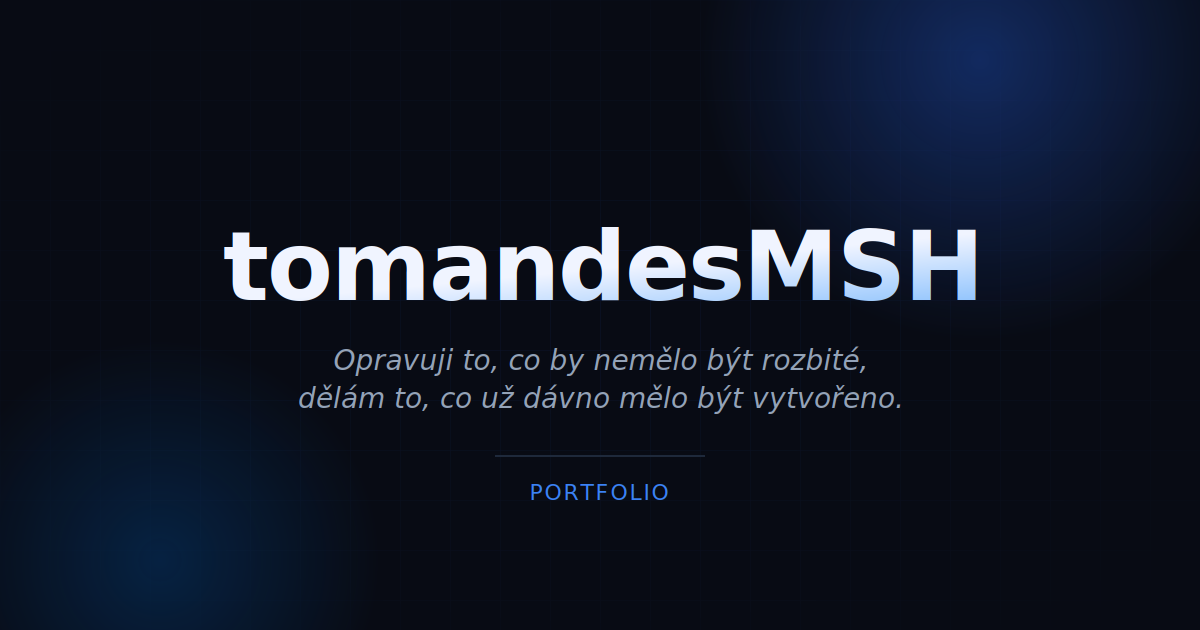
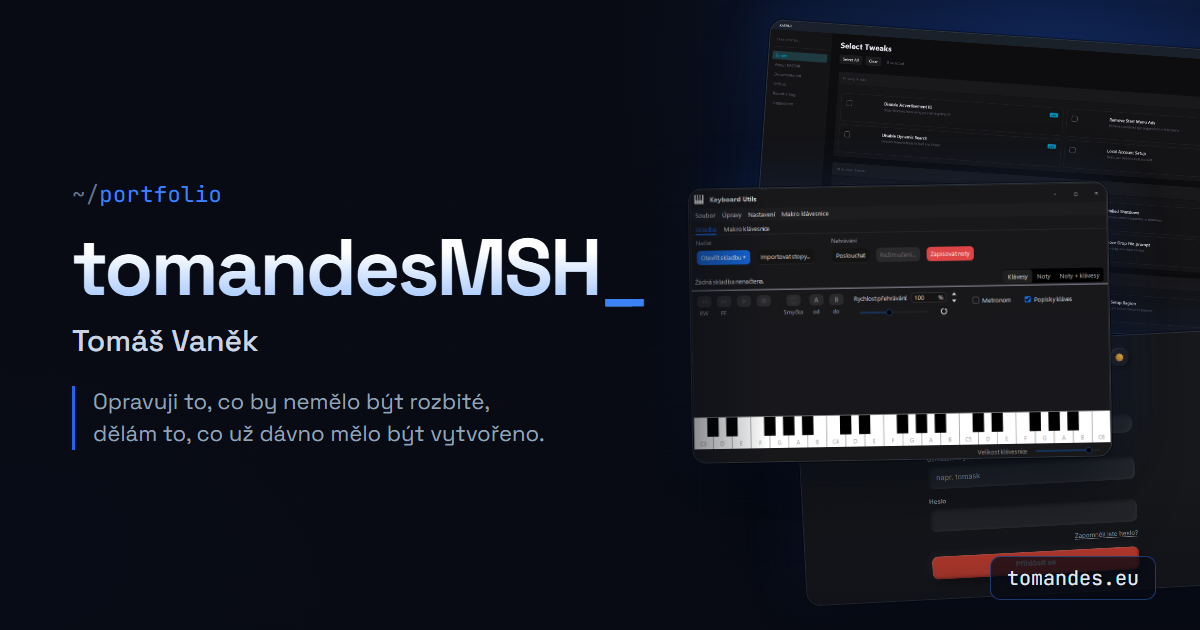
New social preview image (source in og/og.html)

diff --git a/og/og.html b/og/og.html
@@ -1,0 +1,76 @@
+<!DOCTYPE html>
+<html lang="cs">
+<head>
+<meta charset="UTF-8">
+<title>og-image</title>
+<meta name="robots" content="noindex">
+<link href="https://fonts.googleapis.com/css2?family=Space+Grotesk:wght@400;500;700&family=JetBrains+Mono:wght@400;500&display=block" rel="stylesheet">
+<style>
+  * { margin: 0; padding: 0; box-sizing: border-box; }
+  html, body { width: 1200px; height: 630px; overflow: hidden; background: #080b14; }
+  .card {
+    position: relative; width: 1200px; height: 630px; overflow: hidden;
+    font-family: 'Space Grotesk', sans-serif; color: #e2e8f0;
+    background:
+      radial-gradient(700px 500px at 88% 10%, rgba(37, 99, 235, .28), transparent 65%),
+      radial-gradient(500px 400px at 0% 100%, rgba(0, 102, 204, .18), transparent 70%),
+      #080b14;
+  }
+  .grid {
+    position: absolute; inset: 0;
+    background-image:
+      linear-gradient(rgba(59, 130, 246, .08) 1px, transparent 1px),
+      linear-gradient(90deg, rgba(59, 130, 246, .08) 1px, transparent 1px);
+    background-size: 50px 50px;
+    -webkit-mask-image: radial-gradient(ellipse 70% 90% at 30% 50%, black 20%, transparent 80%);
+  }
+  .left { position: absolute; z-index: 5; left: 72px; top: 0; bottom: 0; width: 560px; display: flex; flex-direction: column; justify-content: center; }
+  .eyebrow { font-family: 'JetBrains Mono', monospace; font-size: 22px; color: #3b82f6; letter-spacing: .02em; margin-bottom: 18px; }
+  .eyebrow b { color: #64748b; font-weight: 400; }
+  h1 {
+    font-size: 80px; font-weight: 700; letter-spacing: -.035em; line-height: 1;
+    background: linear-gradient(180deg, #ffffff 30%, #9cc2ff 100%);
+    -webkit-background-clip: text; color: transparent;
+  }
+  h1 .cur { color: #3b82f6; -webkit-text-fill-color: #3b82f6; font-weight: 500; }
+  .who { margin-top: 14px; font-size: 30px; font-weight: 500; color: #cbd5e1; }
+  .tag { margin-top: 26px; font-size: 22px; line-height: 1.45; color: #94a3b8; border-left: 3px solid #2563eb; padding-left: 18px; }
+  .chips { margin-top: 34px; display: flex; gap: 10px; flex-wrap: wrap; }
+  .chips span {
+    font-family: 'JetBrains Mono', monospace; font-size: 17px; color: #bfdbfe;
+    padding: 7px 14px; border-radius: 999px;
+    background: rgba(37, 99, 235, .14); border: 1px solid rgba(59, 130, 246, .35);
+  }
+  .shot {
+    position: absolute; border-radius: 14px; overflow: hidden;
+    border: 1px solid rgba(148, 163, 184, .25);
+    box-shadow: 0 30px 60px rgba(0, 0, 0, .55), 0 0 0 1px rgba(0,0,0,.4), 0 0 60px rgba(37, 99, 235, .18);
+    background: #0d1117;
+  }
+  .shot img { display: block; width: 100%; height: 100%; object-fit: cover; object-position: top left; }
+  .s1 { width: 500px; height: 290px; left: 760px; top: 36px; transform: rotate(4deg); }
+  .s2 { width: 450px; height: 255px; left: 800px; top: 340px; transform: rotate(-3deg); }
+  .s3 { width: 420px; height: 275px; left: 690px; top: 185px; transform: rotate(-1deg); z-index: 2; }
+  .fade { position: absolute; inset: 0; pointer-events: none;
+    background: linear-gradient(90deg, rgba(8,11,20,.9) 52%, rgba(8,11,20,0) 64%), linear-gradient(0deg, rgba(8,11,20,.5), transparent 25%); z-index: 3; }
+  .domain { position: absolute; right: 44px; bottom: 30px; z-index: 4; font-family: 'JetBrains Mono', monospace; font-size: 20px; color: #e2e8f0;
+    padding: 8px 16px; border-radius: 10px; background: rgba(8, 11, 20, .75); border: 1px solid rgba(59,130,246,.4); }
+</style>
+</head>
+<body>
+<div class="card">
+  <div class="grid"></div>
+  <div class="shot s1"><img src="../screenshots/kaspar-1.png" alt=""></div>
+  <div class="shot s2"><img src="../screenshots/keyboard-hero-1.png" alt=""></div>
+  <div class="shot s3"><img src="../screenshots/keyboard-utils-1.png" alt=""></div>
+  <div class="fade"></div>
+  <div class="left">
+    <div class="eyebrow"><b>~/</b>portfolio</div>
+    <h1>tomandesMSH<span class="cur">_</span></h1>
+    <div class="who">Tomáš Vaněk</div>
+    <div class="tag">Opravuji to, co by nemělo být rozbité,<br>dělám to, co už dávno mělo být vytvořeno.</div>
+  </div>
+  <div class="domain">tomandes.eu</div>
+</div>
+</body>
+</html>
